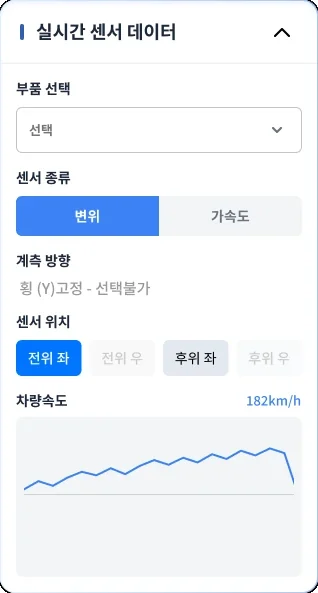
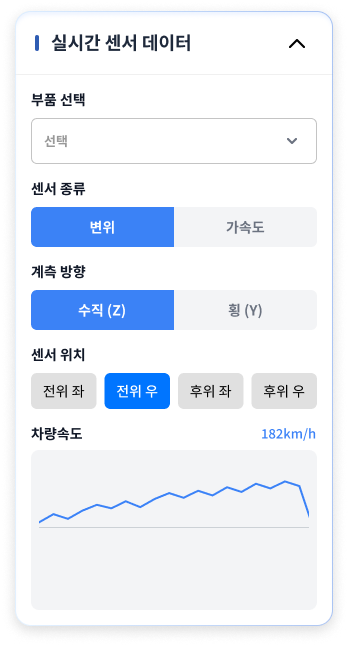
컴포넌트 보강: 철도연 센서 패널을 피그마 원본으로 교체, 11개 프로젝트에 피그마 원본 컴포넌트 24개 추가

diff --git a/index.html b/index.html
@@ -771,7 +771,7 @@ strong { font-weight: 600; }
     <div class="container">
       <p class="fig-sec-label">Design System</p>
       <h2 class="fig-sec-title">Components</h2>
-      <div class="cp-grid"><figure class="cp-item" data-lightbox data-caption="확인 팝업"><div class="cp-stage"><img loading="lazy" src="assets/comp/kaia/confirm-popup.webp?v=1" alt="확인 팝업"></div><figcaption>확인 팝업</figcaption></figure><figure class="cp-item" data-lightbox data-caption="수료 완료 팝업"><div class="cp-stage"><img loading="lazy" src="assets/comp/kaia/complete-popup.webp?v=1" alt="수료 완료 팝업"></div><figcaption>수료 완료 팝업</figcaption></figure></div>
+      <div class="cp-grid"><figure class="cp-item" data-lightbox data-caption="확인 팝업"><div class="cp-stage"><img loading="lazy" src="assets/comp/kaia/confirm-popup.webp?v=1" alt="확인 팝업"></div><figcaption>확인 팝업</figcaption></figure><figure class="cp-item" data-lightbox data-caption="수료 완료 팝업"><div class="cp-stage"><img loading="lazy" src="assets/comp/kaia/complete-popup.webp?v=1" alt="수료 완료 팝업"></div><figcaption>수료 완료 팝업</figcaption></figure><figure class="cp-item" data-lightbox data-caption="로그인 패널"><div class="cp-stage"><img loading="lazy" src="assets/comp/kaia/login-panel.webp?v=1" alt="로그인 패널"></div><figcaption>로그인 패널</figcaption></figure><figure class="cp-item" data-lightbox data-caption="조작 가이드 팝업"><div class="cp-stage"><img loading="lazy" src="assets/comp/kaia/controls-guide.webp?v=1" alt="조작 가이드 팝업"></div><figcaption>조작 가이드 팝업</figcaption></figure></div>
     </div>
   </section>
   <section class="section-block ds-block">
@@ -910,7 +910,7 @@ strong { font-weight: 600; }
     <div class="container">
       <p class="fig-sec-label">Design System</p>
       <h2 class="fig-sec-title">Components</h2>
-      <div class="cp-grid"><figure class="cp-item" data-lightbox data-caption="측정값 표시"><div class="cp-stage"><img loading="lazy" src="assets/comp/samsung-xr/readout.webp?v=1" alt="측정값 표시"></div><figcaption>측정값 표시</figcaption></figure><figure class="cp-item" data-lightbox data-caption="단계 완료 토스트"><div class="cp-stage"><img loading="lazy" src="assets/comp/samsung-xr/toast.webp?v=1" alt="단계 완료 토스트"></div><figcaption>단계 완료 토스트</figcaption></figure><figure class="cp-item" data-lightbox data-caption="진단 앱 화면"><div class="cp-stage"><img loading="lazy" src="assets/comp/samsung-xr/hass-home.webp?v=1" alt="진단 앱 화면"></div><figcaption>진단 앱 화면</figcaption></figure></div>
+      <div class="cp-grid"><figure class="cp-item" data-lightbox data-caption="측정값 표시"><div class="cp-stage"><img loading="lazy" src="assets/comp/samsung-xr/readout.webp?v=1" alt="측정값 표시"></div><figcaption>측정값 표시</figcaption></figure><figure class="cp-item" data-lightbox data-caption="단계 완료 토스트"><div class="cp-stage"><img loading="lazy" src="assets/comp/samsung-xr/toast.webp?v=1" alt="단계 완료 토스트"></div><figcaption>단계 완료 토스트</figcaption></figure><figure class="cp-item" data-lightbox data-caption="진단 앱 화면"><div class="cp-stage"><img loading="lazy" src="assets/comp/samsung-xr/hass-home.webp?v=1" alt="진단 앱 화면"></div><figcaption>진단 앱 화면</figcaption></figure><figure class="cp-item" data-lightbox data-caption="훈련 선택 패널"><div class="cp-stage"><img loading="lazy" src="assets/comp/samsung-xr/training-select.webp?v=1" alt="훈련 선택 패널"></div><figcaption>훈련 선택 패널</figcaption></figure></div>
     </div>
   </section>
   <section class="section-block ds-block">
@@ -1041,7 +1041,7 @@ strong { font-weight: 600; }
     <div class="container">
       <p class="fig-sec-label">Design System</p>
       <h2 class="fig-sec-title">Components</h2>
-      <div class="cp-grid"><figure class="cp-item" data-lightbox data-caption="System Popup"><div class="cp-stage"><img loading="lazy" src="assets/comp/ship-xr/system-popup.webp?v=1" alt="System Popup"></div><figcaption>System Popup</figcaption></figure><figure class="cp-item" data-lightbox data-caption="Minimap Panel"><div class="cp-stage"><img loading="lazy" src="assets/comp/ship-xr/minimap.webp?v=1" alt="Minimap Panel"></div><figcaption>Minimap Panel</figcaption></figure></div>
+      <div class="cp-grid"><figure class="cp-item" data-lightbox data-caption="System Popup"><div class="cp-stage"><img loading="lazy" src="assets/comp/ship-xr/system-popup.webp?v=1" alt="System Popup"></div><figcaption>System Popup</figcaption></figure><figure class="cp-item" data-lightbox data-caption="Minimap Panel"><div class="cp-stage"><img loading="lazy" src="assets/comp/ship-xr/minimap.webp?v=1" alt="Minimap Panel"></div><figcaption>Minimap Panel</figcaption></figure><figure class="cp-item" data-lightbox data-caption="3D 조작 버튼"><div class="cp-stage"><img loading="lazy" src="assets/comp/ship-xr/control-bar.webp?v=1" alt="3D 조작 버튼"></div><figcaption>3D 조작 버튼</figcaption></figure><figure class="cp-item" data-lightbox data-caption="계통별 장비 라벨"><div class="cp-stage"><img loading="lazy" src="assets/comp/ship-xr/equipment-label.webp?v=1" alt="계통별 장비 라벨"></div><figcaption>계통별 장비 라벨</figcaption></figure></div>
     </div>
   </section>
   <section class="section-block ds-block">
@@ -1356,7 +1356,7 @@ strong { font-weight: 600; }
     <div class="container">
       <p class="fig-sec-label">Design System</p>
       <h2 class="fig-sec-title">Components</h2>
-      <div class="cp-grid"><figure class="cp-item" data-lightbox data-caption="실시간 센서 데이터 패널"><div class="cp-stage"><img loading="lazy" src="assets/comp/krri-dt/sensor-panel.webp?v=1" alt="실시간 센서 데이터 패널"></div><figcaption>실시간 센서 데이터 패널</figcaption></figure></div>
+      <div class="cp-grid"><figure class="cp-item" data-lightbox data-caption="실시간 센서 데이터 패널"><div class="cp-stage"><img loading="lazy" src="assets/comp/krri-dt/sensor-panel.webp?v=2" alt="실시간 센서 데이터 패널"></div><figcaption>실시간 센서 데이터 패널</figcaption></figure><figure class="cp-item" data-lightbox data-caption="운행정보 패널"><div class="cp-stage"><img loading="lazy" src="assets/comp/krri-dt/operating-info-panel.webp?v=1" alt="운행정보 패널"></div><figcaption>운행정보 패널</figcaption></figure><figure class="cp-item" data-lightbox data-caption="측정 이력 패널"><div class="cp-stage"><img loading="lazy" src="assets/comp/krri-dt/measurement-history-panel.webp?v=1" alt="측정 이력 패널"></div><figcaption>측정 이력 패널</figcaption></figure><figure class="cp-item" data-lightbox data-caption="구조해석 결과 패널"><div class="cp-stage"><img loading="lazy" src="assets/comp/krri-dt/structural-analysis-panel.webp?v=1" alt="구조해석 결과 패널"></div><figcaption>구조해석 결과 패널</figcaption></figure></div>
     </div>
   </section>
   <section class="section-block ds-block">
@@ -1570,7 +1570,7 @@ strong { font-weight: 600; }
     <div class="container">
       <p class="fig-sec-label">Design System</p>
       <h2 class="fig-sec-title">Components</h2>
-      <div class="cp-grid"><figure class="cp-item" data-lightbox data-caption="Setting"><div class="cp-stage"><img loading="lazy" src="assets/comp/hd-xr/setting-panel.webp?v=1" alt="Setting"><span class="rl rl-h" style="top:0;height:2.782%"><i>17</i></span><span class="rl rl-h" style="bottom:0;height:2.782%"><i>17</i></span><span class="rl rl-v" style="left:0;width:5.312%"><i>17</i></span><span class="rl rl-v" style="right:0;width:5.312%"><i>17</i></span></div><figcaption>Setting</figcaption></figure><figure class="cp-item" data-lightbox data-caption="Alert list item"><div class="cp-stage"><img loading="lazy" src="assets/comp/hd-xr/alert-list-item.webp?v=1" alt="Alert list item"><span class="rl rl-h" style="top:0;height:16.667%"><i>8</i></span><span class="rl rl-h" style="bottom:0;height:16.667%"><i>8</i></span><span class="rl rl-v" style="right:0;width:1.697%"><i>16</i></span></div><figcaption>Alert list item</figcaption></figure><figure class="cp-item" data-lightbox data-caption="Dropdown / Camera Rotation (free rotation, Hover)"><div class="cp-stage"><img loading="lazy" src="assets/comp/hd-xr/dropdown-camera.webp?v=1" alt="Dropdown / Camera Rotation (free rotation, Hover)"><span class="rl rl-h" style="top:0;height:2.299%"><i>4</i></span><span class="rl rl-h" style="bottom:0;height:2.299%"><i>4</i></span><span class="rl rl-v" style="left:0;width:2.000%"><i>4</i></span><span class="rl rl-v" style="right:0;width:2.000%"><i>4</i></span></div><figcaption>Dropdown / Camera Rotation (free rotation, Hover)</figcaption></figure></div>
+      <div class="cp-grid"><figure class="cp-item" data-lightbox data-caption="Setting"><div class="cp-stage"><img loading="lazy" src="assets/comp/hd-xr/setting-panel.webp?v=1" alt="Setting"><span class="rl rl-h" style="top:0;height:2.782%"><i>17</i></span><span class="rl rl-h" style="bottom:0;height:2.782%"><i>17</i></span><span class="rl rl-v" style="left:0;width:5.312%"><i>17</i></span><span class="rl rl-v" style="right:0;width:5.312%"><i>17</i></span></div><figcaption>Setting</figcaption></figure><figure class="cp-item" data-lightbox data-caption="Alert list item"><div class="cp-stage"><img loading="lazy" src="assets/comp/hd-xr/alert-list-item.webp?v=1" alt="Alert list item"><span class="rl rl-h" style="top:0;height:16.667%"><i>8</i></span><span class="rl rl-h" style="bottom:0;height:16.667%"><i>8</i></span><span class="rl rl-v" style="right:0;width:1.697%"><i>16</i></span></div><figcaption>Alert list item</figcaption></figure><figure class="cp-item" data-lightbox data-caption="Dropdown / Camera Rotation (free rotation, Hover)"><div class="cp-stage"><img loading="lazy" src="assets/comp/hd-xr/dropdown-camera.webp?v=1" alt="Dropdown / Camera Rotation (free rotation, Hover)"><span class="rl rl-h" style="top:0;height:2.299%"><i>4</i></span><span class="rl rl-h" style="bottom:0;height:2.299%"><i>4</i></span><span class="rl rl-v" style="left:0;width:2.000%"><i>4</i></span><span class="rl rl-v" style="right:0;width:2.000%"><i>4</i></span></div><figcaption>Dropdown / Camera Rotation (free rotation, Hover)</figcaption></figure><figure class="cp-item" data-lightbox data-caption="라벨 메뉴"><div class="cp-stage"><img loading="lazy" src="assets/comp/hd-xr/label-menu.webp?v=1" alt="라벨 메뉴"></div><figcaption>라벨 메뉴</figcaption></figure></div>
     </div>
   </section>
   <section class="section-block ds-block">
@@ -1799,7 +1799,7 @@ strong { font-weight: 600; }
     <div class="container">
       <p class="fig-sec-label">Design System</p>
       <h2 class="fig-sec-title">Components</h2>
-      <div class="cp-grid"><figure class="cp-item" data-lightbox data-caption="Pop-up - VOC"><div class="cp-stage"><img loading="lazy" src="assets/comp/ar-guidance/voc-popup.webp?v=1" alt="Pop-up - VOC"><span class="rl rl-h" style="top:0;height:8.333%"><i>78</i></span><span class="rl rl-h" style="bottom:0;height:2.564%"><i>24</i></span><span class="rl rl-v" style="left:0;width:6.305%"><i>50</i></span><span class="rl rl-v" style="right:0;width:6.305%"><i>50</i></span></div><figcaption>Pop-up - VOC</figcaption></figure><figure class="cp-item" data-lightbox data-caption="Function Item List"><div class="cp-stage"><img loading="lazy" src="assets/comp/ar-guidance/function-item-list.webp?v=1" alt="Function Item List"><span class="rl rl-h" style="top:0;height:6.723%"><i>32</i></span><span class="rl rl-h" style="bottom:0;height:6.723%"><i>32</i></span><span class="rl rl-v" style="left:0;width:5.556%"><i>40</i></span><span class="rl rl-v" style="right:0;width:5.556%"><i>40</i></span></div><figcaption>Function Item List</figcaption></figure><figure class="cp-item" data-lightbox data-caption="Btn - Guidance"><div class="cp-stage"><img loading="lazy" src="assets/comp/ar-guidance/guidance-card-btn.webp?v=1" alt="Btn - Guidance"></div><figcaption>Btn - Guidance</figcaption></figure></div>
+      <div class="cp-grid"><figure class="cp-item" data-lightbox data-caption="Pop-up - VOC"><div class="cp-stage"><img loading="lazy" src="assets/comp/ar-guidance/voc-popup.webp?v=1" alt="Pop-up - VOC"><span class="rl rl-h" style="top:0;height:8.333%"><i>78</i></span><span class="rl rl-h" style="bottom:0;height:2.564%"><i>24</i></span><span class="rl rl-v" style="left:0;width:6.305%"><i>50</i></span><span class="rl rl-v" style="right:0;width:6.305%"><i>50</i></span></div><figcaption>Pop-up - VOC</figcaption></figure><figure class="cp-item" data-lightbox data-caption="Function Item List"><div class="cp-stage"><img loading="lazy" src="assets/comp/ar-guidance/function-item-list.webp?v=1" alt="Function Item List"><span class="rl rl-h" style="top:0;height:6.723%"><i>32</i></span><span class="rl rl-h" style="bottom:0;height:6.723%"><i>32</i></span><span class="rl rl-v" style="left:0;width:5.556%"><i>40</i></span><span class="rl rl-v" style="right:0;width:5.556%"><i>40</i></span></div><figcaption>Function Item List</figcaption></figure><figure class="cp-item" data-lightbox data-caption="Btn - Guidance"><div class="cp-stage"><img loading="lazy" src="assets/comp/ar-guidance/guidance-card-btn.webp?v=1" alt="Btn - Guidance"></div><figcaption>Btn - Guidance</figcaption></figure><figure class="cp-item" data-lightbox data-caption="사전 점검 팝업"><div class="cp-stage"><img loading="lazy" src="assets/comp/ar-guidance/all-check-popup.webp?v=1" alt="사전 점검 팝업"></div><figcaption>사전 점검 팝업</figcaption></figure></div>
     </div>
   </section>
   <section class="section-block ds-block">
@@ -1999,6 +1999,13 @@ strong { font-weight: 600; }
       <div class="as-wrap"><div class="as-group"><h3>진입 · 튜토리얼</h3><div class="as-row"><figure class="as-item" data-lightbox data-caption="스플래시"><figcaption>스플래시</figcaption><img loading="lazy" src="assets/screens/vr-maintenance/n364_3124.webp?v=1" alt="스플래시" style="aspect-ratio:480/273"></figure><figure class="as-item" data-lightbox data-caption="모드 선택"><figcaption>모드 선택</figcaption><img loading="lazy" src="assets/screens/vr-maintenance/n369_19140.webp?v=1" alt="모드 선택" style="aspect-ratio:480/273"></figure><figure class="as-item" data-lightbox data-caption="튜토리얼 시작"><figcaption>튜토리얼 시작</figcaption><img loading="lazy" src="assets/screens/vr-maintenance/n3621_35610.webp?v=1" alt="튜토리얼 시작" style="aspect-ratio:480/273"></figure><figure class="as-item" data-lightbox data-caption="핀치 이동 안내"><figcaption>핀치 이동 안내</figcaption><img loading="lazy" src="assets/screens/vr-maintenance/n3636_40809.webp?v=1" alt="핀치 이동 안내" style="aspect-ratio:480/273"></figure><figure class="as-item" data-lightbox data-caption="도구 사용 안내"><figcaption>도구 사용 안내</figcaption><img loading="lazy" src="assets/screens/vr-maintenance/n3636_42334.webp?v=1" alt="도구 사용 안내" style="aspect-ratio:480/273"></figure><figure class="as-item" data-lightbox data-caption="실습 전 안내"><figcaption>실습 전 안내</figcaption><img loading="lazy" src="assets/screens/vr-maintenance/n4022_75530.webp?v=1" alt="실습 전 안내" style="aspect-ratio:480/273"></figure><figure class="as-item" data-lightbox data-caption="튜토리얼 · 메뉴"><figcaption>튜토리얼 · 메뉴</figcaption><img loading="lazy" src="assets/screens/vr-maintenance/n410_11594.webp?v=1" alt="튜토리얼 · 메뉴" style="aspect-ratio:480/273"></figure><figure class="as-item" data-lightbox data-caption="튜토리얼 · 제스처"><figcaption>튜토리얼 · 제스처</figcaption><img loading="lazy" src="assets/screens/vr-maintenance/n421_10686.webp?v=1" alt="튜토리얼 · 제스처" style="aspect-ratio:480/273"></figure><figure class="as-item" data-lightbox data-caption="튜토리얼 · 메뉴 열기"><figcaption>튜토리얼 · 메뉴 열기</figcaption><img loading="lazy" src="assets/screens/vr-maintenance/n421_7562.webp?v=1" alt="튜토리얼 · 메뉴 열기" style="aspect-ratio:480/273"></figure><figure class="as-item" data-lightbox data-caption="안전 장구 안내"><figcaption>안전 장구 안내</figcaption><img loading="lazy" src="assets/screens/vr-maintenance/n421_12654.webp?v=1" alt="안전 장구 안내" style="aspect-ratio:480/273"></figure></div></div><div class="as-group"><h3>장비 선택</h3><div class="as-row"><figure class="as-item" data-lightbox data-caption="장비 종류"><figcaption>장비 종류</figcaption><img loading="lazy" src="assets/screens/vr-maintenance/n1217_31836.webp?v=1" alt="장비 종류" style="aspect-ratio:480/273"></figure><figure class="as-item" data-lightbox data-caption="장비 종류 · 선택"><figcaption>장비 종류 · 선택</figcaption><img loading="lazy" src="assets/screens/vr-maintenance/n395_12402.webp?v=1" alt="장비 종류 · 선택" style="aspect-ratio:480/273"></figure><figure class="as-item" data-lightbox data-caption="모델 선택 · DX225LC-7X"><figcaption>모델 선택 · DX225LC-7X</figcaption><img loading="lazy" src="assets/screens/vr-maintenance/n1217_34971.webp?v=1" alt="모델 선택 · DX225LC-7X" style="aspect-ratio:480/273"></figure><figure class="as-item" data-lightbox data-caption="모델 선택 · DL320-7"><figcaption>모델 선택 · DL320-7</figcaption><img loading="lazy" src="assets/screens/vr-maintenance/n1217_34975.webp?v=1" alt="모델 선택 · DL320-7" style="aspect-ratio:480/273"></figure></div></div><div class="as-group"><h3>인게임 메뉴 · 도구</h3><div class="as-row"><figure class="as-item" data-lightbox data-caption="손목 메뉴"><figcaption>손목 메뉴</figcaption><img loading="lazy" src="assets/screens/vr-maintenance/n1137_105073.webp?v=1" alt="손목 메뉴" style="aspect-ratio:480/273"></figure><figure class="as-item" data-lightbox data-caption="메뉴 · 고정"><figcaption>메뉴 · 고정</figcaption><img loading="lazy" src="assets/screens/vr-maintenance/n1137_105081.webp?v=1" alt="메뉴 · 고정" style="aspect-ratio:480/273"></figure><figure class="as-item" data-lightbox data-caption="인게임 메뉴 열기"><figcaption>인게임 메뉴 열기</figcaption><img loading="lazy" src="assets/screens/vr-maintenance/n395_14469.webp?v=1" alt="인게임 메뉴 열기" style="aspect-ratio:480/273"></figure><figure class="as-item" data-lightbox data-caption="인게임 메뉴"><figcaption>인게임 메뉴</figcaption><img loading="lazy" src="assets/screens/vr-maintenance/n395_15467.webp?v=1" alt="인게임 메뉴" style="aspect-ratio:480/273"></figure><figure class="as-item" data-lightbox data-caption="툴박스"><figcaption>툴박스</figcaption><img loading="lazy" src="assets/screens/vr-maintenance/n1338_29861.webp?v=1" alt="툴박스" style="aspect-ratio:480/273"></figure><figure class="as-item" data-lightbox data-caption="위치 이동"><figcaption>위치 이동</figcaption><img loading="lazy" src="assets/screens/vr-maintenance/n397_15483.webp?v=1" alt="위치 이동" style="aspect-ratio:480/273"></figure><figure class="as-item" data-lightbox data-caption="위치 변경"><figcaption>위치 변경</figcaption><img loading="lazy" src="assets/screens/vr-maintenance/n3106_32297.webp?v=1" alt="위치 변경" style="aspect-ratio:480/273"></figure></div></div><div class="as-group"><h3>정비 진행</h3><div class="as-row"><figure class="as-item" data-lightbox data-caption="진행률"><figcaption>진행률</figcaption><img loading="lazy" src="assets/screens/vr-maintenance/n1974_43573.webp?v=1" alt="진행률" style="aspect-ratio:480/273"></figure><figure class="as-item" data-lightbox data-caption="경고"><figcaption>경고</figcaption><img loading="lazy" src="assets/screens/vr-maintenance/n2202_44332.webp?v=1" alt="경고" style="aspect-ratio:480/273"></figure><figure class="as-item" data-lightbox data-caption="정비 목록"><figcaption>정비 목록</figcaption><img loading="lazy" src="assets/screens/vr-maintenance/n2717_40855.webp?v=1" alt="정비 목록" style="aspect-ratio:480/273"></figure></div></div><div class="as-group"><h3>확인 대화상자</h3><div class="as-row"><figure class="as-item" data-lightbox data-caption="초기화 확인"><figcaption>초기화 확인</figcaption><img loading="lazy" src="assets/screens/vr-maintenance/n2733_84050.webp?v=1" alt="초기화 확인" style="aspect-ratio:480/273"></figure><figure class="as-item" data-lightbox data-caption="정비 완료"><figcaption>정비 완료</figcaption><img loading="lazy" src="assets/screens/vr-maintenance/n2733_91223.webp?v=1" alt="정비 완료" style="aspect-ratio:480/273"></figure><figure class="as-item" data-lightbox data-caption="메인으로 이동"><figcaption>메인으로 이동</figcaption><img loading="lazy" src="assets/screens/vr-maintenance/n2812_45124.webp?v=1" alt="메인으로 이동" style="aspect-ratio:480/273"></figure></div></div></div>
     </div>
   </section>
+  <section class="section-block cp-block">
+    <div class="container">
+      <p class="fig-sec-label">Design System</p>
+      <h2 class="fig-sec-title">Components</h2>
+      <div class="cp-grid"><figure class="cp-item" data-lightbox data-caption="장비 유형 선택 팝업"><div class="cp-stage"><img loading="lazy" src="assets/comp/vr-maintenance/type-list-popup.webp?v=1" alt="장비 유형 선택 팝업"></div><figcaption>장비 유형 선택 팝업</figcaption></figure><figure class="cp-item" data-lightbox data-caption="메인 메뉴 버튼"><div class="cp-stage"><img loading="lazy" src="assets/comp/vr-maintenance/main-menu-buttons.webp?v=1" alt="메인 메뉴 버튼"></div><figcaption>메인 메뉴 버튼</figcaption></figure><figure class="cp-item" data-lightbox data-caption="경고 팝업"><div class="cp-stage"><img loading="lazy" src="assets/comp/vr-maintenance/warning-popup.webp?v=1" alt="경고 팝업"></div><figcaption>경고 팝업</figcaption></figure></div>
+    </div>
+  </section>
   <section class="section-block ds-block">
     <div class="container">
       <p class="fig-sec-label">Design System</p>
@@ -2171,6 +2178,13 @@ strong { font-weight: 600; }
       <p class="fig-sec-label">All Screens</p>
       <h2 class="fig-sec-title">전체 화면</h2>
       <div class="as-wrap"><div class="as-group"><h3>진입 · 설정</h3><div class="as-row"><figure class="as-item" data-lightbox data-caption="Contents Select"><figcaption>Contents Select</figcaption><img loading="lazy" src="assets/screens/hd-simulator/content.webp?v=1" alt="Contents Select" style="aspect-ratio:664/700"></figure><figure class="as-item" data-lightbox data-caption="Setting / Volume"><figcaption>Setting / Volume</figcaption><img loading="lazy" src="assets/screens/hd-simulator/setting.webp?v=1" alt="Setting / Volume" style="aspect-ratio:664/700"></figure></div></div><div class="as-group"><h3>자유모드</h3><div class="as-row"><figure class="as-item" data-lightbox data-caption="자유모드 / Menu"><figcaption>자유모드 / Menu</figcaption><img loading="lazy" src="assets/screens/hd-simulator/menu.webp?v=1" alt="자유모드 / Menu" style="aspect-ratio:664/700"></figure><figure class="as-item" data-lightbox data-caption="자유모드 / 조이스틱패턴"><figcaption>자유모드 / 조이스틱패턴</figcaption><img loading="lazy" src="assets/screens/hd-simulator/joystick.webp?v=1" alt="자유모드 / 조이스틱패턴" style="aspect-ratio:664/700"></figure></div></div><div class="as-group"><h3>시험모드</h3><div class="as-row"><figure class="as-item" data-lightbox data-caption="시험모드 / 감점 가이드화면"><figcaption>시험모드 / 감점 가이드화면</figcaption><img loading="lazy" src="assets/screens/hd-simulator/penalty.webp?v=1" alt="시험모드 / 감점 가이드화면" style="aspect-ratio:664/700"></figure><figure class="as-item" data-lightbox data-caption="시험모드 / 시험 채점"><figcaption>시험모드 / 시험 채점</figcaption><img loading="lazy" src="assets/screens/hd-simulator/score-screen.webp?v=1" alt="시험모드 / 시험 채점" style="aspect-ratio:664/700"></figure></div></div></div>
+    </div>
+  </section>
+  <section class="section-block cp-block">
+    <div class="container">
+      <p class="fig-sec-label">Design System</p>
+      <h2 class="fig-sec-title">Components</h2>
+      <div class="cp-grid"><figure class="cp-item" data-lightbox data-caption="시험 종료 확인 팝업"><div class="cp-stage"><img loading="lazy" src="assets/comp/hd-simulator/popup-basic.webp?v=1" alt="시험 종료 확인 팝업"></div><figcaption>시험 종료 확인 팝업</figcaption></figure><figure class="cp-item" data-lightbox data-caption="시험모드 메뉴 팝업"><div class="cp-stage"><img loading="lazy" src="assets/comp/hd-simulator/menu-popup.webp?v=1" alt="시험모드 메뉴 팝업"></div><figcaption>시험모드 메뉴 팝업</figcaption></figure><figure class="cp-item" data-lightbox data-caption="실격 조건 안내 패널"><div class="cp-stage"><img loading="lazy" src="assets/comp/hd-simulator/disqualify-panel.webp?v=1" alt="실격 조건 안내 패널"></div><figcaption>실격 조건 안내 패널</figcaption></figure><figure class="cp-item" data-lightbox data-caption="어태치먼트 선택 버튼"><div class="cp-stage"><img loading="lazy" src="assets/comp/hd-simulator/attachment-select.webp?v=1" alt="어태치먼트 선택 버튼"></div><figcaption>어태치먼트 선택 버튼</figcaption></figure></div>
     </div>
   </section>
   <section class="section-block ds-block">
@@ -2506,7 +2520,7 @@ strong { font-weight: 600; }
     <div class="container">
       <p class="fig-sec-label">Design System</p>
       <h2 class="fig-sec-title">Components</h2>
-      <div class="cp-grid"><figure class="cp-item" data-lightbox data-caption="제품 일괄 등록 Popup"><div class="cp-stage"><img loading="lazy" src="assets/comp/korail/bulk-upload-popup.webp?v=1" alt="제품 일괄 등록 Popup"></div><figcaption>제품 일괄 등록 Popup</figcaption></figure></div>
+      <div class="cp-grid"><figure class="cp-item" data-lightbox data-caption="제품 일괄 등록 Popup"><div class="cp-stage"><img loading="lazy" src="assets/comp/korail/bulk-upload-popup.webp?v=1" alt="제품 일괄 등록 Popup"></div><figcaption>제품 일괄 등록 Popup</figcaption></figure><figure class="cp-item" data-lightbox data-caption="열차별 입출고 팝업"><div class="cp-stage"><img loading="lazy" src="assets/comp/korail/train-io-popup.webp?v=1" alt="열차별 입출고 팝업"></div><figcaption>열차별 입출고 팝업</figcaption></figure><figure class="cp-item" data-lightbox data-caption="경고표지 팝업"><div class="cp-stage"><img loading="lazy" src="assets/comp/korail/warning-label-popup.webp?v=1" alt="경고표지 팝업"></div><figcaption>경고표지 팝업</figcaption></figure><figure class="cp-item" data-lightbox data-caption="비밀번호 변경 팝업"><div class="cp-stage"><img loading="lazy" src="assets/comp/korail/password-change-popup.webp?v=1" alt="비밀번호 변경 팝업"></div><figcaption>비밀번호 변경 팝업</figcaption></figure></div>
     </div>
   </section>
   <section class="section-block ds-block">
@@ -2845,7 +2859,7 @@ strong { font-weight: 600; }
     <div class="container">
       <p class="fig-sec-label">Design System</p>
       <h2 class="fig-sec-title">Components</h2>
-      <div class="cp-grid"><figure class="cp-item" data-lightbox data-caption="오류 Popup"><div class="cp-stage"><img loading="lazy" src="assets/comp/koreatech-xr/error-popup.webp?v=1" alt="오류 Popup"></div><figcaption>오류 Popup</figcaption></figure></div>
+      <div class="cp-grid"><figure class="cp-item" data-lightbox data-caption="오류 Popup"><div class="cp-stage"><img loading="lazy" src="assets/comp/koreatech-xr/error-popup.webp?v=1" alt="오류 Popup"></div><figcaption>오류 Popup</figcaption></figure><figure class="cp-item" data-lightbox data-caption="학습 선택 팝업"><div class="cp-stage"><img loading="lazy" src="assets/comp/koreatech-xr/learning-select.webp?v=1" alt="학습 선택 팝업"></div><figcaption>학습 선택 팝업</figcaption></figure><figure class="cp-item" data-lightbox data-caption="OMS 작업 지침서 팝업"><div class="cp-stage"><img loading="lazy" src="assets/comp/koreatech-xr/oms-guide-popup.webp?v=1" alt="OMS 작업 지침서 팝업"></div><figcaption>OMS 작업 지침서 팝업</figcaption></figure><figure class="cp-item" data-lightbox data-caption="입고검수 팝업"><div class="cp-stage"><img loading="lazy" src="assets/comp/koreatech-xr/inbound-inspection-popup.webp?v=1" alt="입고검수 팝업"></div><figcaption>입고검수 팝업</figcaption></figure></div>
     </div>
   </section>
   <section class="section-block ds-block">
@@ -3011,7 +3025,7 @@ strong { font-weight: 600; }
     <div class="container">
       <p class="fig-sec-label">Design System</p>
       <h2 class="fig-sec-title">Components</h2>
-      <div class="cp-grid"><figure class="cp-item" data-lightbox data-caption="Tab - 2 buttons"><div class="cp-stage"><img loading="lazy" src="assets/comp/koreatech-step/tab-2-buttons.webp?v=1" alt="Tab - 2 buttons"></div><figcaption>Tab - 2 buttons</figcaption></figure><figure class="cp-item" data-lightbox data-caption="조견표"><div class="cp-stage"><img loading="lazy" src="assets/comp/koreatech-step/lookup-table-panel.webp?v=2" alt="브리넬 조견표"></div><figcaption>조견표</figcaption></figure><figure class="cp-item" data-lightbox data-caption="Btn - Main Menu"><div class="cp-stage"><img loading="lazy" src="assets/comp/koreatech-step/main-menu-btn.webp?v=1" alt="Btn - Main Menu"></div><figcaption>Btn - Main Menu</figcaption></figure></div>
+      <div class="cp-grid"><figure class="cp-item" data-lightbox data-caption="Tab - 2 buttons"><div class="cp-stage"><img loading="lazy" src="assets/comp/koreatech-step/tab-2-buttons.webp?v=1" alt="Tab - 2 buttons"></div><figcaption>Tab - 2 buttons</figcaption></figure><figure class="cp-item" data-lightbox data-caption="조견표"><div class="cp-stage"><img loading="lazy" src="assets/comp/koreatech-step/lookup-table-panel.webp?v=2" alt="브리넬 조견표"></div><figcaption>조견표</figcaption></figure><figure class="cp-item" data-lightbox data-caption="Btn - Main Menu"><div class="cp-stage"><img loading="lazy" src="assets/comp/koreatech-step/main-menu-btn.webp?v=1" alt="Btn - Main Menu"></div><figcaption>Btn - Main Menu</figcaption></figure><figure class="cp-item" data-lightbox data-caption="환경설정 팝업"><div class="cp-stage"><img loading="lazy" src="assets/comp/koreatech-step/settings-popup.webp?v=1" alt="환경설정 팝업"></div><figcaption>환경설정 팝업</figcaption></figure></div>
     </div>
   </section>
   <section class="section-block ds-block">
